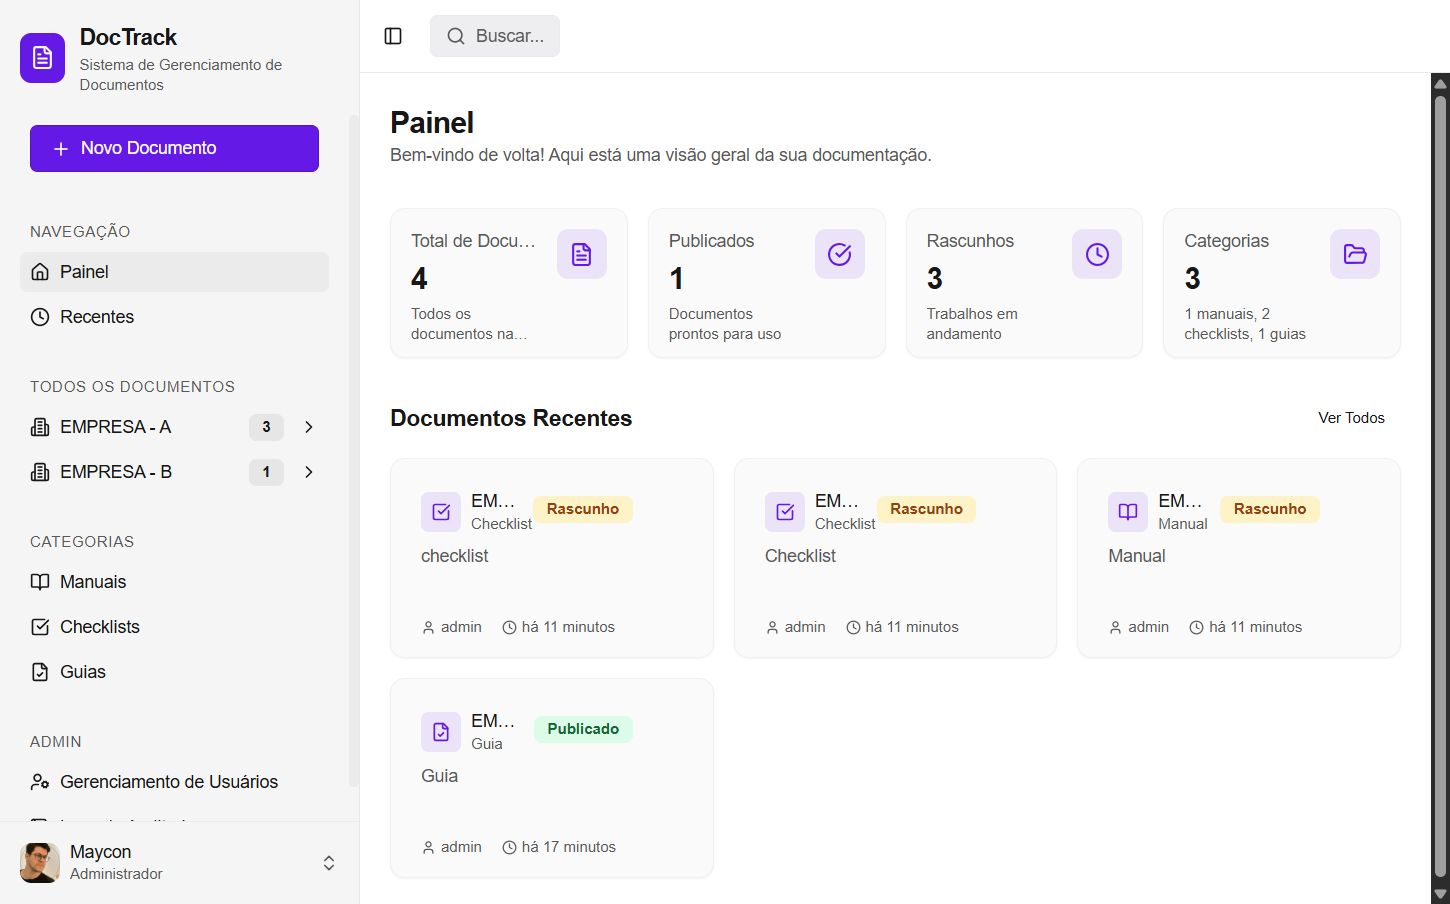
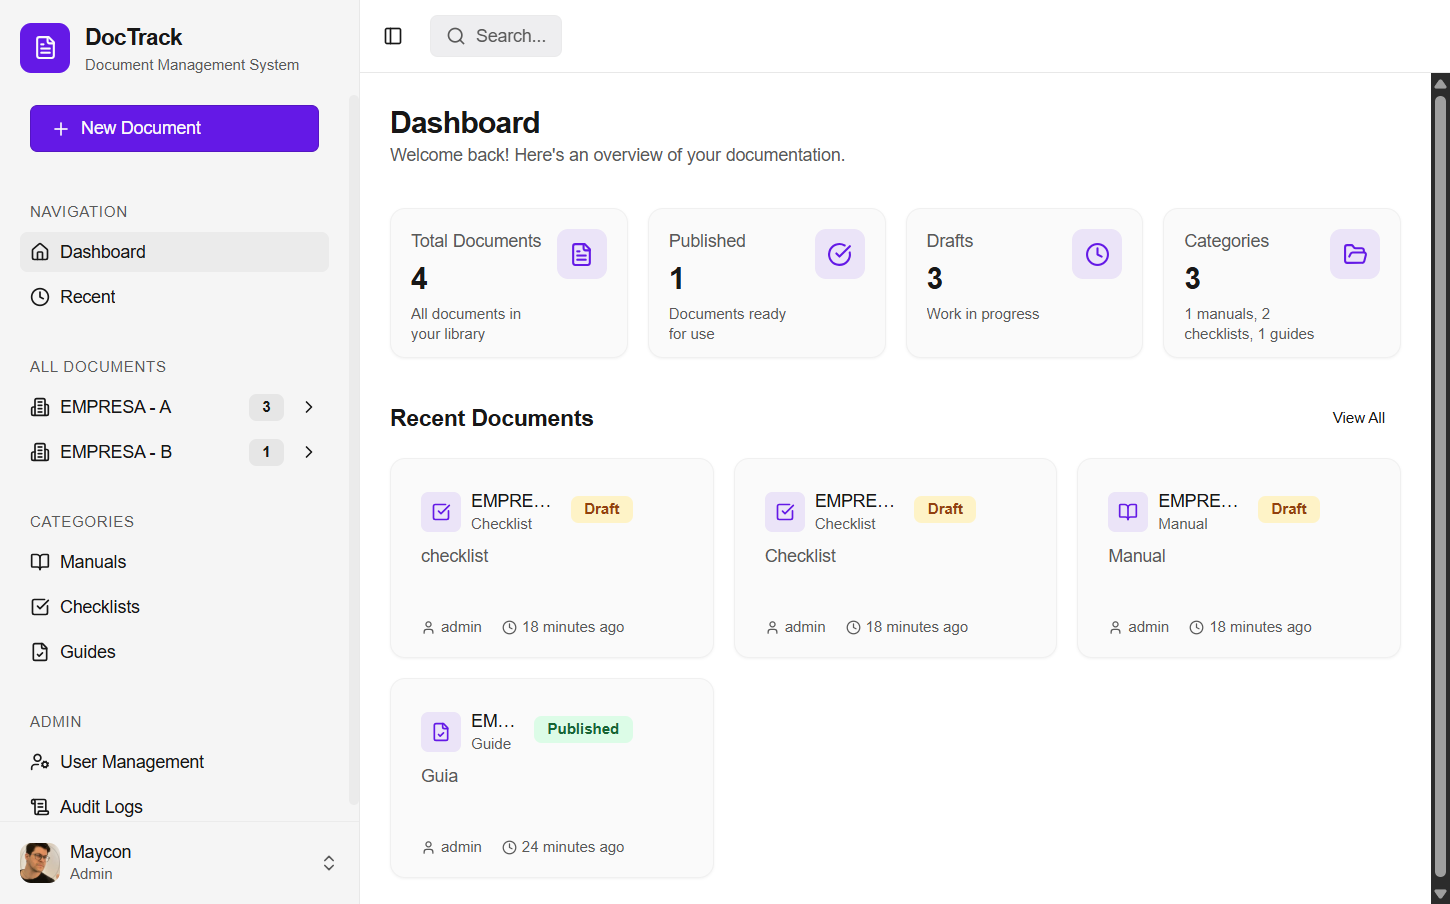
docs: update screenshots (English UI), side-by-side tech stack tables

diff --git a/README.md b/README.md
@@ -52,6 +52,10 @@ DocTrack is a comprehensive document management solution designed for businesses
 
 ## 🛠 Tech Stack
 
+<table>
+<tr>
+<td valign="top">
+
 ### Frontend
 
 | Technology    | Purpose              |
@@ -65,6 +69,9 @@ DocTrack is a comprehensive document management solution designed for businesses
 | React Query   | Data Fetching        |
 | i18next       | Internationalization |
 
+</td>
+<td valign="top">
+
 ### Backend
 
 | Technology  | Purpose          |
@@ -75,6 +82,10 @@ DocTrack is a comprehensive document management solution designed for businesses
 | PostgreSQL  | Database         |
 | Passport.js | Authentication   |
 | bcrypt      | Password Hashing |
+
+</td>
+</tr>
+</table>
 
 ## 📸 Screenshots
 
